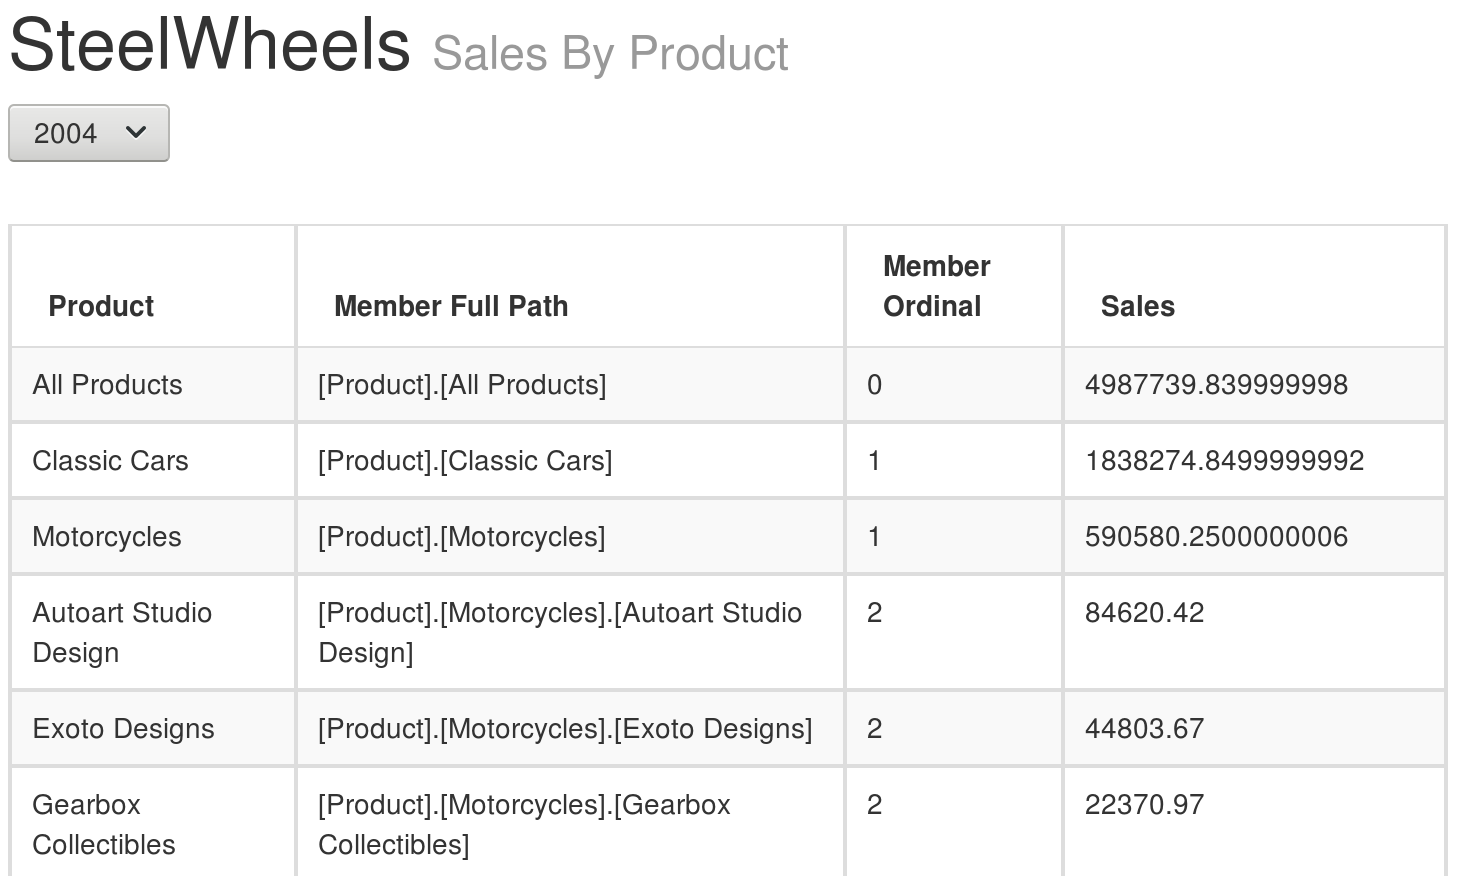
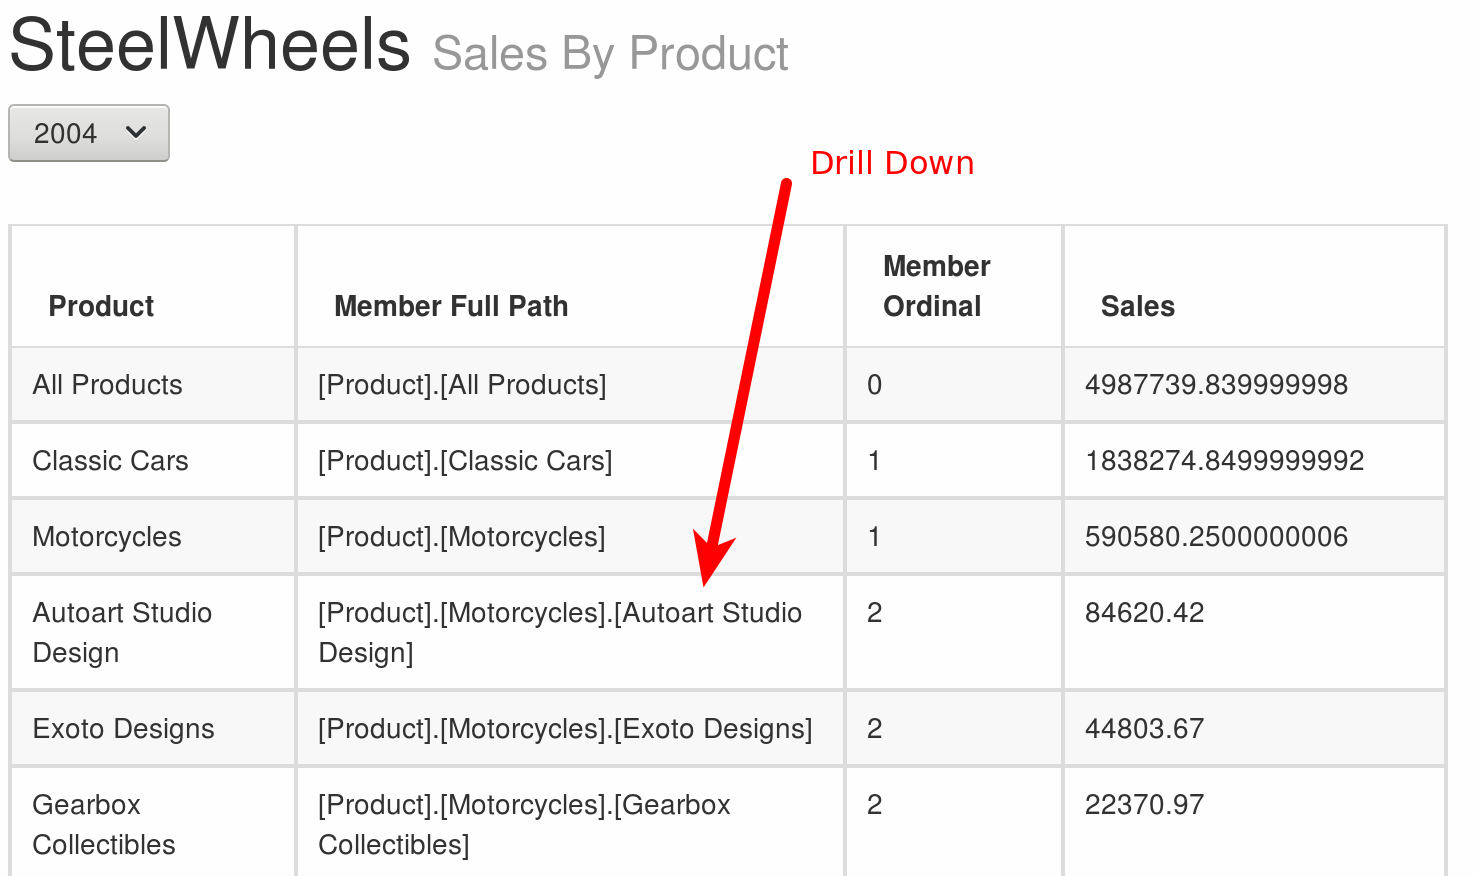
finished first drill down

Changed region(s): [[0.498, 0.1541, 0.6536, 0.4932], [0.4668, 0.4932, 0.498, 0.6781]]

diff --git a/_posts/2017-04-09-CDE-and-MDX-Drilldownmember.md b/_posts/2017-04-09-CDE-and-MDX-Drilldownmember.md
@@ -238,52 +238,55 @@ Preview the dashboard:
 
 ![](/images/mdx-drilldownmember-13.png)
 
-For now we can see that this approach is working. However, this still does not get rid of the **MDX Injection problem**. So instead of sending an MDX fragment as the parameter value, we should send something less sensitive, like just a simple value that cannot do any harm. Update the **clickAction** with the following code:
+For now we can see that this approach is working. However, this still does not get rid of the **MDX Injection problem**. So instead of sending an **MDX fragment** as the parameter value, we should send something less sensitive, like just a simple value that cannot do any harm. Update the **clickAction** with the following code:
 
 ```
 function(e){
 	// pick up member name only - not whole path
-	var chosenMember = e.rawData.resultset[e.rowIdx].[e.colIdx];
+	var chosenMember = e.rawData.resultset[e.rowIdx][e.colIdx];
 	// pick up level ordinal
-	var reportLevel = e.rawData.resultset[e.rowIdx].[e.colIdx+2];
+	var reportLevel = e.rawData.resultset[e.rowIdx][e.colIdx+2];
 	// update parameter value with chosen member
 	dashboard.setParameter("param_report_level", reportLevel);
-	dashboard.fireChange("param_wit", chosenMember);
+	dashboard.fireChange("param_line", chosenMember);
 }
 ```
 
-Create a new custom parameter call `param_report_level` and leave its default value unset. Remove the default value for parameter `param_wit`.
+Create a new **simple parameter** call `param_report_level` and leave its **default value** unset. Remove the default value for parameter `param_line`.
+
+Adjust the **table component** to pick up this parameter as well.
 
 Adjust the **MDX query** to this new version:
 
 ```sql
 WITH
-SET WIT AS
+SET PRODUCT AS
 	IIF(
 		"${param_report_level}" = "" OR "${param_report_level}" = "0"
-		, DESCENDANTS([WIT.WIT Hierarchy], 1, SELF_AND_BEFORE)
+		, DESCENDANTS([Product], 1, SELF_AND_BEFORE)
 		, DRILLDOWNMEMBER(
-			DESCENDANTS([WIT.WIT Hierarchy], 1, SELF_AND_BEFORE)
-			, [WIT.WIT Hierarchy].[WIT].[${param_wit}]
+			DESCENDANTS([Product], 1, SELF_AND_BEFORE)
+			, [Product].[Line].[${param_line}]
 		)
 	)
 	MEMBER [Measures].[Member Full Path] AS
-		[WIT.WIT Hierarchy].CurrentMember.UniqueName
+		[Product].CurrentMember.UniqueName
 	MEMBER [Measures].[Member Ordinal] AS
-		[WIT.WIT Hierarchy].CurrentMember.Ordinal
+		[Product].CurrentMember.Ordinal
 SELECT
-	NON EMPTY WIT ON ROWS
+	NON EMPTY PRODUCT ON ROWS
 	, {
 		[Measures].[Member Full Path]
 		, [Measures].[Member Ordinal]
-		, [Measures].[MyOtherMeasure]
+		, [Measures].[Sales]
 	} ON COLUMNS
-FROM [myCube] 
+FROM [SteelWheelsSales]
+WHERE [Time].[Years].[${param_year}]
 ```
 
 Make sure your MDX query has `param_report_level` defined as additional parameter.
 
-**Important considerations** for setting default value of parameter:
+**Important considerations** for setting default value for a custom parameter:
 
 ```
 param_report_level = 0
@@ -307,56 +310,67 @@ param_report_level = function(){
 No, this doesn't solve it either. Just don't define any default value and check in the MDX query against an empty value (always treat as String).
 
 
-While we got the first **drill down** working now, we will have to add an additional parameter to make the second drill down working: If we drill down to the **second level**, we also have to **keep the context** of the **previously chosen first level member**. We introduce a new parameter called `param_sub_wit` with no default value.
+While we got the first **drill down** working now, we will have to add an additional parameter to make the second drill down working: If we drill down to the **second level**, we also have to **keep the context** of the **previously chosen first level member**. We introduce a new **simple parameter** called `param_vendor` with no default value.
 
-Next we adjust the **clickAction** for the table component (only changed section shown below):
+Next we adjust the **clickAction** for the table component:
 
-```
-dashboard.getParameterValue("param_report_level", reportLevel);
-if (reportLevel < 2){
-	dashboard.getParameterValue("param_wit", chosenMember);
-} else {
-	// do not overwrite
-	// dashboard.getParameterValue("param_wit", chosenMember);
-	dashboard.getParameterValue("param_sub_wit", chosenMember);
-}
+```javascript
+function(e){
+    // pick up member name only - not whole path
+	var chosenMember = e.rawData.resultset[e.rowIdx][e.colIdx];
+	// pick up level ordinal
+	var reportLevel = e.rawData.resultset[e.rowIdx][e.colIdx+2];
+	// update parameter value with chosen member
+	if (reportLevel < 2){
+    dashboard.setParameter("param_line", chosenMember);
+    } else {
+      // do not overwrite
+      // dashboard.setParameter("param_line", chosenMember);
+      dashboard.setParameter("param_vendor", chosenMember);
+    }
+    dashboard.fireChange("param_report_level", reportLevel);
+} 
 ```
 
 Adjust the **MDX Query**:
 
 ```sql
 WITH
-SET WIT AS
-	IIF(
-		"${param_report_level}" = "" OR "${param_report_level}" = "0"
-		, DESCENDANTS([WIT.WIT Hierarchy], 1, SELF_AND_BEFORE)
-		, IIF(
-			"${param_report_level}" = "1"
-		, DRILLDOWNMEMBER(
-			DESCENDANTS([WIT.WIT Hierarchy], 1, SELF_AND_BEFORE)
-			, [WIT.WIT Hierarchy].[WIT].[${param_wit}]
-		)
-		, DRILLDOWNMEMBER(
-		,DRILLDOWNMEMBER(
-			DESCENDANTS([WIT.WIT Hierarchy], 1, SELF_AND_BEFORE)
-			, [WIT.WIT Hierarchy].[WIT].[${param_wit}]
-		)
-		, [WIT.WIT Hierarchy].[${param_wit}].[${param_sub_wit}]
-)
-	)
-	MEMBER [Measures].[Member Full Path] AS
-		[WIT.WIT Hierarchy].CurrentMember.UniqueName
-	MEMBER [Measures].[Member Ordinal] AS
-		[WIT.WIT Hierarchy].CurrentMember.Ordinal
+SET PRODUCT AS
+  IIF(
+    "${param_report_level}" = "" OR "${param_report_level}" = "0"
+    , DESCENDANTS([Product], 1, SELF_AND_BEFORE)
+    , IIF(
+        "${param_report_level}" = "1"
+        , DRILLDOWNMEMBER(
+            DESCENDANTS([Product], 1, SELF_AND_BEFORE)
+            , [Product].[Line].[${param_line}]
+        )
+        , DRILLDOWNMEMBER(
+            , DRILLDOWNMEMBER(
+                DESCENDANTS([Product], 1, SELF_AND_BEFORE)
+                , [Product].[Line].[${param_line}]
+            )
+            , [Product].[${param_line}].[${param_vendor}]
+        )
+    )
+  )
+  MEMBER [Measures].[Member Full Path] AS
+    [Product].CurrentMember.UniqueName
+  MEMBER [Measures].[Member Ordinal] AS
+    [Product].CurrentMember.Ordinal
 SELECT
-	NON EMPTY WIT ON ROWS
-	, {
-		[Measures].[Member Full Path]
-		, [Measures].[Member Ordinal]
-		, [Measures].[MyOtherMeasure]
-	} ON COLUMNS
-FROM [myCube] 
+  NON EMPTY PRODUCT ON ROWS
+  , {
+    [Measures].[Member Full Path]
+    , [Measures].[Member Ordinal]
+    , [Measures].[Sales]
+  } ON COLUMNS
+FROM [SteelWheelsSales]
+WHERE [Time].[Years].[${param_year}]
 ```
+
+Make sure you register the `param_vendor` parameter with the **table component** as well as with the **MDX query**.
  
 ## Making the data readable
 
